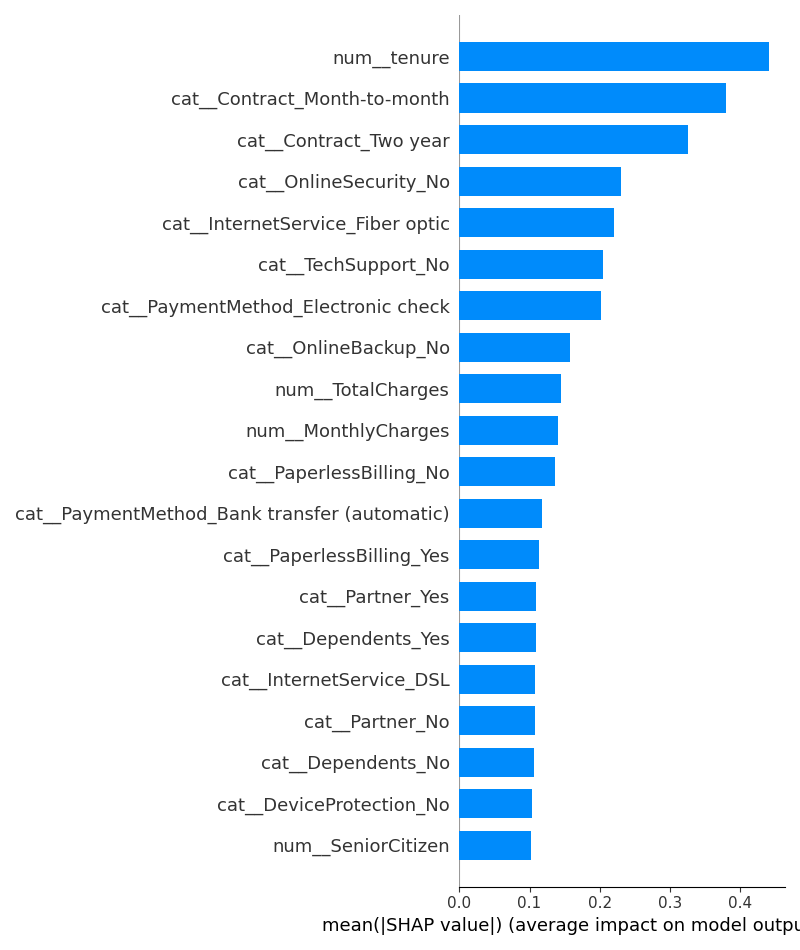
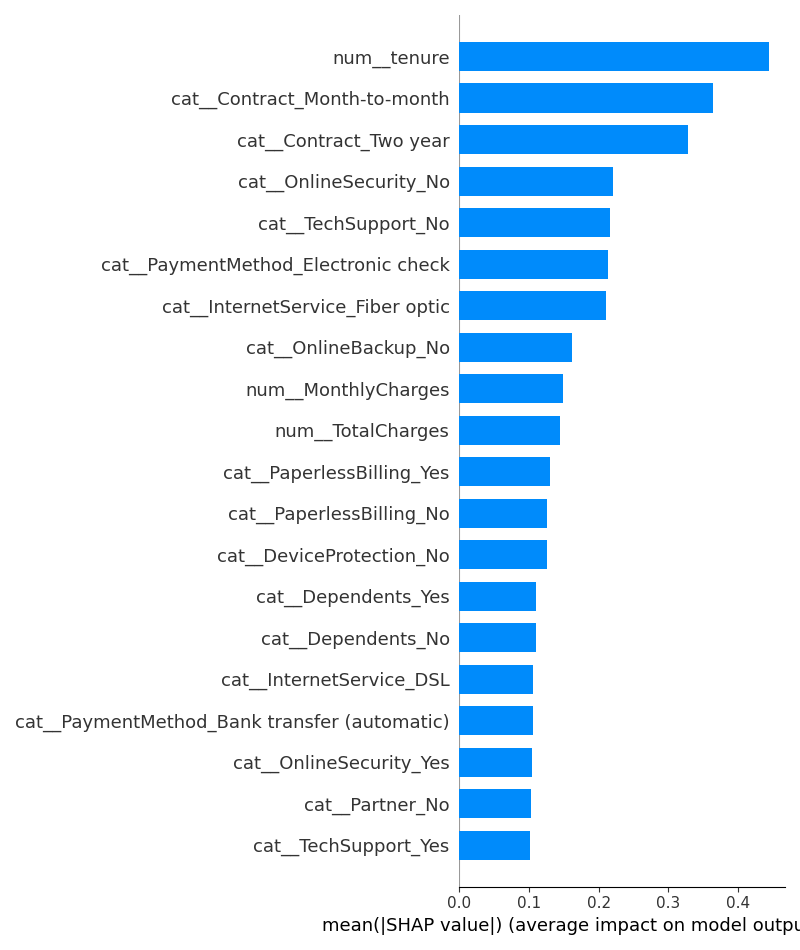
fixed organization, moved SHAP and feature importance to a new script soi can feed them the tuned model. Create new script to hypertune the LR, generated new reports

diff --git a/scripts/evaluate.py b/scripts/evaluate.py
@@ -1,24 +1,14 @@
-# Here I will deeply analyze, then SHAP explainability which is a way to explain the output of any machine learning model
-# We evaluate the saved models, and then generate visuals, reports, insight, etc..
-
 """
-This script evaluates multiple trained models on the churn dataset, providing:
+This script evaluates multiple trained ML models on the churn dataset, providing:
+
 1. Classification metrics (precision, recall, F1-score) for each model.
 2. Confusion matrices for visual comparison of predictions.
 3. ROC curves + AUC to compare how well models distinguish churners from non-churners.
-4. SHAP explainability for the best model (Logistic Regression) to identify which features most influence churn predictions.
 
-
-Key Insight from SHAP
-
-Top predictors of churn:
-1. tenure → short-tenure customers are more likely to churn.
-2. Contract_Month-to-Month → month-to-month contracts increase churn risk.
-3. Contract_Two year → long-term contracts reduce churn risk.
-
-- Other features have smaller but non-negligible contributions.
-- Business takeaway: Focus retention efforts on new, month-to-month customers to reduce churn.
-
+Key Notes:
+- All models evaluated here are the untuned baseline models.
+- SHAP explainability and feature importance are handled separately in 'explainability.py'.
+- Focus is on understanding model performance and comparing metrics across models.
 """
 
 
@@ -31,7 +21,6 @@ import matplotlib.pyplot as plt
 from sklearn.metrics import ConfusionMatrixDisplay, roc_curve, auc, classification_report
 from preprocessing import load_data, clean_data, preprocess_features, split_data
 
-import shap
 
 
 os.makedirs("reports", exist_ok=True) # report folder to save visuals
@@ -68,7 +57,7 @@ for i, model_file in enumerate(model_files, 1):
 
     # Print classification report
     print(f"\n===== {model_file.split('/')[-1]} =====")
-    print(classification_report(y_test, y_pred)) # the metrics: precision, recall, ...
+    print(classification_report(y_test, y_pred, digits=4)) # the metrics: precision, recall, ...
 
     # Confusion matrix subplot
     plt.subplot(3, 2, i)  # 3 rows, 2 cols
@@ -103,108 +92,3 @@ plt.savefig("reports/roc_curves.png")
 plt.show()
 
 
-# ________________________________________________________________________________________
-# SHAP Explainablilty (Global; basically which features influence the prediction the most. In my case I found it to be tenure)
-# for: Importance + effect on predictions (positive/negative)
-
-# Load the best model
-model = joblib.load("models/logistic_regression.pkl")
-
-# Transform test features using the pipeline preprocessing
-X_test_transformed = model.named_steps['preprocessing'].transform(X_test)
-
-# Create SHAP explainer for Logistic Regression
-explainer = shap.LinearExplainer(model.named_steps['classifier'], X_test_transformed, feature_perturbation="correlation_dependent")
-shap_values = explainer.shap_values(X_test_transformed) #how much each feature contributes to the prediction of each sample
-
-
-
-# Global feature importance (summary plot)
-shap.summary_plot(
-    shap_values, 
-    X_test_transformed, 
-    feature_names=model.named_steps['preprocessing'].get_feature_names_out(),
-    plot_type="bar",
-    show=False
-)
-
-plt.tight_layout()
-plt.savefig("reports/shap_summary_plot.png")
-plt.close()
-
-# ________________________________________________________________________________________
-# SHAP Local Explainability (Single Customer)
-
-"""
-Insight for customer 0:
-# The model's baseline churn score is around -0.65, meaning customers \
-# generally tend to stay. For customer 0, the final prediction drops to \
-# -2.93, far below the baseline, indicating a very low churn risk driven \
-# mainly by strong retention factors such as longer tenure and a long-term \
-# contract.”
-"""
-
-# Pick one customer from the test set
-sample_index = 0                                    # CHANGE THIS AS DESIRED
-sample = X_test.iloc[[sample_index]]    # get the sample
-
-# Transform sample using preprocessing
-sample_transformed = model.named_steps['preprocessing'].transform(sample)
-
-# Compute SHAP values for this instance
-shap_values_single = explainer.shap_values(sample_transformed)
-
-# Force plot (local explanation)
-shap.force_plot(
-    explainer.expected_value,
-    shap_values_single,
-    sample_transformed,
-    feature_names=model.named_steps['preprocessing'].get_feature_names_out(),
-    matplotlib=True,
-    show=False
-)
-
-plt.tight_layout()
-plt.savefig("reports/shap_local_force_plot.png")
-plt.close()
-
-
-
-
-
-# ________________________________________________________________________________________
-# Feature importance for Logistic Regression
-# for: Only importance ranking
-
-
-import numpy as np
-model = joblib.load("models/logistic_regression_tuned.pkl")
-
-# Get feature names after preprocessing
-feature_names = model.named_steps['preprocessing'].get_feature_names_out()
-
-# Get coefficients
-coef = model.named_steps['classifier'].coef_[0]
-
-# Sort features by absolute coefficient
-sorted_idx = np.argsort(np.abs(coef))[::-1]
-
-# Plot top 10 features
-import matplotlib.pyplot as plt
-
-plt.figure(figsize=(8,6))
-plt.barh([feature_names[i] for i in sorted_idx[:10]], coef[sorted_idx[:10]])
-plt.xlabel("Coefficient (Feature Importance)")
-plt.title("Top 10 Logistic Regression Feature Importances")
-plt.gca().invert_yaxis()
-plt.tight_layout()
-plt.savefig("reports/logreg_feature_importance.png")
-plt.show()
-
-
-
-"""
-For Logistic Regression, coefficients are a simple global feature importance, 
-while SHAP gives you the same idea but richer, including effect direction and 
-per-sample explanation.
-"""

diff --git a/scripts/explainability.py b/scripts/explainability.py
@@ -1,0 +1,142 @@
+"""
+This script provides interpretability analysis for the tuned Logistic Regression model
+used for customer churn prediction. It focuses on understanding which features drive
+predictions, both globally and for individual customers.
+
+Functionalities included:
+
+1. SHAP Global Explainability
+   - Computes feature importance and effect direction for all test samples.
+   - Generates a summary bar plot showing the top features contributing to churn predictions.
+
+2. SHAP Local Explainability
+   - Computes SHAP values for a single customer to understand why the model predicted
+     churn or non-churn for that instance.
+   - Produces a force plot for visualization.
+
+3. Logistic Regression Coefficient Analysis
+   - Extracts and ranks feature coefficients from the tuned LR model as a simple global
+     measure of feature importance.
+   - Produces a bar chart of the top 10 features.
+"""
+
+
+
+
+
+import os
+import joblib
+import matplotlib.pyplot as plt
+import shap
+import numpy as np
+from preprocessing import load_data, clean_data, preprocess_features, split_data
+
+os.makedirs("reports", exist_ok=True)
+
+
+# ________________________________________________________________________________________
+# Load and preprocess
+df = load_data()
+df = clean_data(df)
+X, y, preprocessor = preprocess_features(df)
+X_train, X_test, y_train, y_test = split_data(X, y)
+
+# Load tuned Logistic Regression
+model = joblib.load("models/logistic_regression_tuned.pkl")
+
+# Transform test features using the pipeline
+X_test_transformed = model.named_steps['preprocessing'].transform(X_test)
+
+# ________________________________________________________________________________________
+# SHAP Explainablilty (Global; basically which features influence the prediction the most. In my case I found it to be tenure)
+
+# Create SHAP explainer for Logistic Regression
+explainer = shap.LinearExplainer(model.named_steps['classifier'], X_test_transformed, feature_perturbation="correlation_dependent")
+shap_values = explainer.shap_values(X_test_transformed) #how much each feature contributes to the prediction of each sample
+
+
+# Global feature importance (summary plot)
+shap.summary_plot(
+    shap_values,
+    X_test_transformed,
+    feature_names=model.named_steps['preprocessing'].get_feature_names_out(),
+    plot_type="bar",
+    show=False
+)
+plt.tight_layout()
+plt.savefig("reports/shap_summary_plot.png")
+plt.close()
+
+# ________________________________________________________________________________________
+# SHAP Local Explainability (Single Customer)
+
+"""
+Insight for customer 0:
+# The model's baseline churn score is around -0.65, meaning customers \
+# generally tend to stay. For customer 0, the final prediction drops to \
+# -2.93, far below the baseline, indicating a very low churn risk driven \
+# mainly by strong retention factors such as longer tenure and a long-term \
+# contract.”
+"""
+
+# Pick one customer from the test set
+sample_index = 0                                    # CHANGE THIS AS DESIRED
+sample = X_test.iloc[[sample_index]]    # get the sample
+
+# Transform sample using preprocessing
+sample_transformed = model.named_steps['preprocessing'].transform(sample)
+
+# Compute SHAP values for this instance
+shap_values_single = explainer.shap_values(sample_transformed)
+
+# Force plot (local explanation)
+shap.force_plot(
+    explainer.expected_value,
+    shap_values_single,
+    sample_transformed,
+    feature_names=model.named_steps['preprocessing'].get_feature_names_out(),
+    matplotlib=True,
+    show=False
+)
+
+plt.tight_layout()
+plt.savefig("reports/shap_local_force_plot.png")
+plt.close()
+
+
+
+
+
+# ________________________________________________________________________________________
+# Feature importance for Logistic Regression
+
+model = joblib.load("models/logistic_regression_tuned.pkl")
+
+# Get feature names after preprocessing
+feature_names = model.named_steps['preprocessing'].get_feature_names_out()
+
+# Get coefficients
+coef = model.named_steps['classifier'].coef_[0]
+
+# Sort features by absolute coefficient
+sorted_idx = np.argsort(np.abs(coef))[::-1]
+
+# Plot top 10 features
+plt.figure(figsize=(10,6))
+bars = plt.barh([feature_names[i] for i in sorted_idx[:10]], coef[sorted_idx[:10]], color='skyblue')
+plt.xlabel("Coefficient (Feature Importance)")
+plt.title("Top 10 Logistic Regression Feature Importances")
+plt.gca().invert_yaxis()
+
+
+# # Add explanatory text on the side
+# explanation = (
+#     "Longer bars = stronger impact on churn prediction\n"
+#     "Right (positive) = feature increases probability of churn\n"
+#     "Left (negative) = feature decreases probability of churn (more likely to stay)"
+# )
+# plt.text(x=min(coef[sorted_idx[:10]])*1.1, y=9.5, s=explanation, fontsize=9, va='top', color='gray')
+
+plt.tight_layout()
+plt.savefig("reports/logreg_feature_importance.png")
+plt.show()

diff --git a/scripts/hyperparameter_tuning.py b/scripts/hyperparameter_tuning.py
@@ -1,0 +1,55 @@
+"""
+This script performs simple hyperparameter tuning for the Logistic Regression model
+using GridSearchCV. The tuned model is saved for later evaluation and explainability.
+"""
+
+import os
+import joblib
+from sklearn.model_selection import GridSearchCV
+from sklearn.linear_model import LogisticRegression
+from sklearn.pipeline import Pipeline
+from preprocessing import load_data, clean_data, preprocess_features, split_data
+
+os.makedirs("models", exist_ok=True)
+
+#_____________________________
+# Load and preprocess
+df = load_data()
+df = clean_data(df)
+X, y, preprocessor = preprocess_features(df)
+X_train, X_test, y_train, y_test = split_data(X, y)
+
+#_____________________________
+# Define pipeline
+pipeline = Pipeline([
+    ('preprocessing', preprocessor),
+    ('classifier', LogisticRegression(max_iter=1000, class_weight='balanced'))
+])
+
+#_____________________________
+# Define hyperparameter grid
+param_grid = {
+    'classifier__C': [0.01, 0.1, 1, 10],
+    'classifier__solver': ['liblinear', 'lbfgs']
+}
+
+#_____________________________
+# GridSearchCV
+grid_search = GridSearchCV(
+    pipeline,
+    param_grid,
+    scoring='recall',  # we focus most on recall for churners
+    cv=5,
+    n_jobs=-1,
+    verbose=1
+)
+
+grid_search.fit(X_train, y_train)
+
+print("Best parameters:", grid_search.best_params_)
+print("Best recall (CV):", grid_search.best_score_)
+
+#_____________________________
+# Save tuned model
+joblib.dump(grid_search.best_estimator_, "models/logistic_regression_tuned.pkl")
+print("Saved tuned Logistic Regression model to models/logistic_regression_tuned.pkl")
